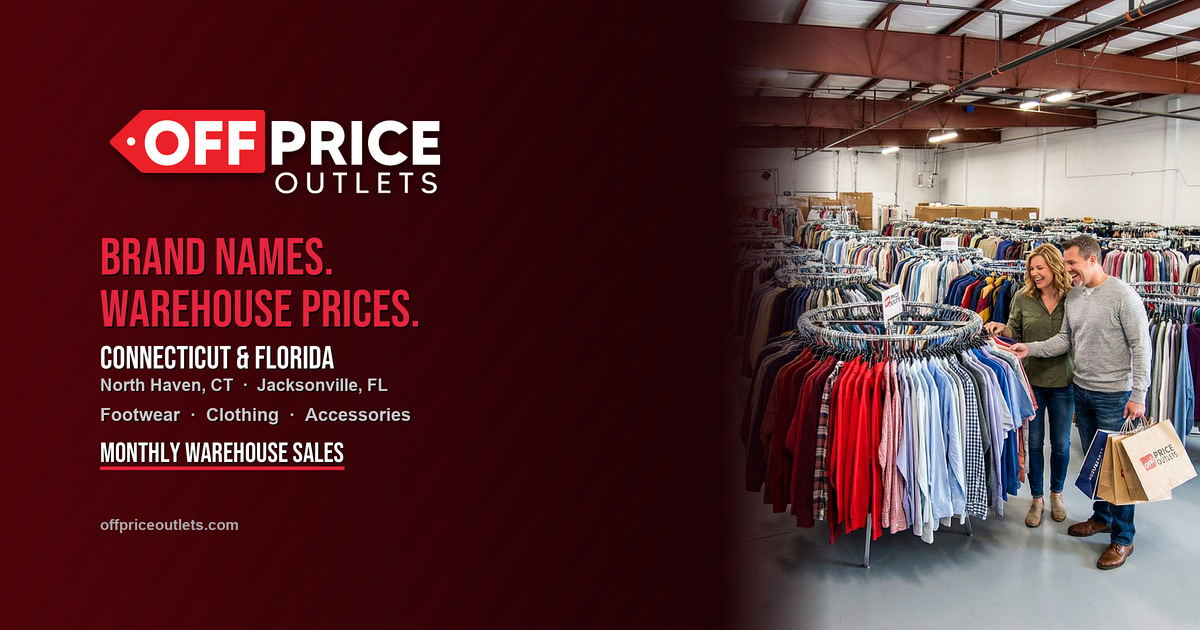
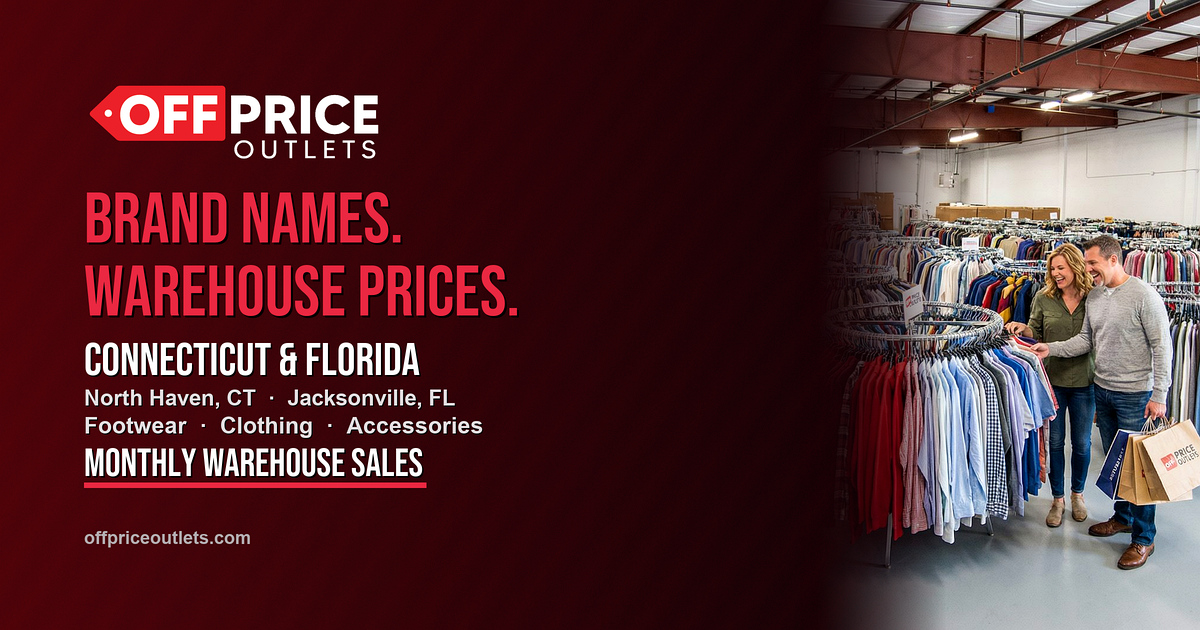
Enlarge OG share image type for readable iMessage previews.
Wider text panel, larger Bebas headlines, cache-bust v83, add regen script.

diff --git a/index.html b/index.html
@@ -21,8 +21,8 @@
     <meta property="og:url" content="https://offpriceoutlets.com/">
     <meta property="og:title" content="Off Price Outlets | Connecticut &amp; Florida Monthly Warehouse Sales">
     <meta property="og:description" content="Two locations: North Haven, CT and Jacksonville, FL. FL grand opening Oct 10–11 · 10 AM–4 PM. Brand-name clothing, footwear &amp; accessories at warehouse prices.">
-    <meta property="og:image" content="https://offpriceoutlets.com/images/og-image.jpg?v=82">
-    <meta property="og:image:secure_url" content="https://offpriceoutlets.com/images/og-image.jpg?v=82">
+    <meta property="og:image" content="https://offpriceoutlets.com/images/og-image.jpg?v=83">
+    <meta property="og:image:secure_url" content="https://offpriceoutlets.com/images/og-image.jpg?v=83">
     <meta property="og:image:type" content="image/jpeg">
     <meta property="og:image:width" content="1200">
     <meta property="og:image:height" content="630">
@@ -32,7 +32,7 @@
     <meta name="twitter:card" content="summary_large_image">
     <meta name="twitter:title" content="Off Price Outlets | Connecticut &amp; Florida Monthly Warehouse Sales">
     <meta name="twitter:description" content="Two locations: North Haven, CT and Jacksonville, FL. FL grand opening Oct 10–11 · 10 AM–4 PM.">
-    <meta name="twitter:image" content="https://offpriceoutlets.com/images/og-image.jpg?v=82">
+    <meta name="twitter:image" content="https://offpriceoutlets.com/images/og-image.jpg?v=83">
 
     <link rel="icon" href="images/favicon.svg?v=68" type="image/svg+xml">
     <link rel="icon" href="images/favicon-32.png?v=68" type="image/png" sizes="32x32">
@@ -57,7 +57,7 @@
           "name": "Off Price Outlets",
           "url": "https://offpriceoutlets.com/",
           "logo": "https://offpriceoutlets.com/images/logo-official.png",
-          "image": "https://offpriceoutlets.com/images/og-image.jpg?v=82",
+          "image": "https://offpriceoutlets.com/images/og-image.jpg?v=83",
           "description": "Off Price Outlets hosts monthly warehouse sales with brand-name men's and women's clothing, footwear, and accessories at warehouse prices—often up to 90% off retail. Locations in North Haven, Connecticut and Jacksonville, Florida.",
           "sameAs": [
             "https://www.instagram.com/offpriceoutletsct/",
@@ -72,7 +72,7 @@
           "name": "Off Price Outlets — North Haven",
           "parentOrganization": { "@id": "https://offpriceoutlets.com/#organization" },
           "url": "https://offpriceoutlets.com/#locations",
-          "image": "https://offpriceoutlets.com/images/og-image.jpg?v=82",
+          "image": "https://offpriceoutlets.com/images/og-image.jpg?v=83",
           "description": "Monthly warehouse sales in North Haven, Connecticut on select dates—not every weekend. Brand-name clothing, footwear, and accessories at warehouse prices.",
           "address": {
             "@type": "PostalAddress",
@@ -96,7 +96,7 @@
           "name": "Off Price Outlets — Jacksonville",
           "parentOrganization": { "@id": "https://offpriceoutlets.com/#organization" },
           "url": "https://offpriceoutlets.com/#locations",
-          "image": "https://offpriceoutlets.com/images/og-image.jpg?v=82",
+          "image": "https://offpriceoutlets.com/images/og-image.jpg?v=83",
           "description": "Off Price Outlets Jacksonville, Florida. Grand opening warehouse sale October 10–11, 2026, 10 AM–4 PM. Brand-name clothing, footwear, and accessories.",
           "address": {
             "@type": "PostalAddress",
@@ -135,7 +135,7 @@
               "addressCountry": "US"
             }
           },
-          "image": "https://offpriceoutlets.com/images/og-image.jpg?v=82",
+          "image": "https://offpriceoutlets.com/images/og-image.jpg?v=83",
           "organizer": { "@id": "https://offpriceoutlets.com/#organization" },
           "offers": {
             "@type": "AggregateOffer",

diff --git a/scripts/generate-og-image.py b/scripts/generate-og-image.py
@@ -1,0 +1,139 @@
+#!/usr/bin/env python3
+"""Regenerate images/og-image.jpg (1200×630) for link previews."""
+from __future__ import annotations
+
+import random
+from pathlib import Path
+
+from PIL import Image, ImageDraw, ImageEnhance, ImageFilter, ImageFont, ImageOps
+
+ROOT = Path(__file__).resolve().parents[1]
+BEBAS = Path("/tmp/og-fonts/BebasNeue-Regular.ttf")
+BODY = Path("/System/Library/Fonts/Supplemental/Arial Bold.ttf")
+
+W, H = 2400, 1260
+SAFE = 168
+PHOTO_FRAC = 0.32
+
+
+def main() -> None:
+    if not BEBAS.is_file():
+        raise SystemExit(f"Missing font: {BEBAS} (download Bebas Neue to /tmp/og-fonts/)")
+
+    text_right = int(W * (1 - PHOTO_FRAC) - 40)
+    photo_w = int(W * PHOTO_FRAC)
+
+    photo_src = Image.open(ROOT / "images/homepage.jpg").convert("RGB")
+    photo = ImageOps.fit(
+        photo_src, (photo_w, H), method=Image.Resampling.LANCZOS, centering=(0.58, 0.42)
+    )
+    photo = ImageEnhance.Contrast(
+        ImageEnhance.Color(ImageEnhance.Sharpness(photo).enhance(1.12)).enhance(1.05)
+    ).enhance(1.06)
+
+    base = Image.new("RGB", (W, H))
+    px = base.load()
+    rnd = random.Random(7)
+    for y in range(H):
+        for x in range(W):
+            t = x / W
+            r = int(22 + 55 * max(0, 1 - t * 1.4))
+            g = int(1 + 3 * (1 - t))
+            b = int(4 + 6 * (1 - t))
+            streak = int(18 * abs(((x + y * 0.7) % 90) / 90 - 0.5))
+            n = rnd.randint(-6, 6)
+            r = max(0, min(90, r + streak // 2 + n))
+            px[x, y] = (r, max(0, g), max(0, b))
+
+    canvas = base.convert("RGBA")
+    photo_rgba = photo.convert("RGBA")
+    feather = 260
+    mask = Image.new("L", (photo_w, H), 255)
+    md = ImageDraw.Draw(mask)
+    for i in range(feather):
+        md.line([(i, 0), (i, H)], fill=int(255 * (i / feather) ** 1.15))
+    dark = Image.new("RGBA", (photo_w, H), (0, 0, 0, 0))
+    dd = ImageDraw.Draw(dark)
+    for i in range(feather):
+        dd.line([(i, 0), (i, H)], fill=(0, 0, 0, int(130 * (1 - i / feather))))
+    photo_rgba = Image.alpha_composite(photo_rgba, dark)
+    canvas.paste(photo_rgba, (W - photo_w, 0), mask)
+
+    logo = Image.open(ROOT / "images/logo-official-white.png").convert("RGBA")
+    lp = logo.load()
+    for yy in range(logo.height):
+        for xx in range(logo.width):
+            r, g, b, a = lp[xx, yy]
+            if r < 40 and g < 40 and b < 40:
+                lp[xx, yy] = (0, 0, 0, 0)
+    pad = 16
+    logo_p = Image.new("RGBA", (logo.width + pad * 2, logo.height + pad * 2), (0, 0, 0, 0))
+    logo_p.paste(logo, (pad, pad), logo)
+    logo_w = 600
+    logo_r = logo_p.resize(
+        (logo_w, int(logo_p.height * logo_w / logo_p.width)), Image.Resampling.LANCZOS
+    )
+    canvas.alpha_composite(logo_r, (SAFE, SAFE - 8))
+
+    draw = ImageDraw.Draw(canvas)
+    red = (235, 40, 65, 255)
+    white = (255, 255, 255, 255)
+    dim = (228, 224, 226, 255)
+
+    def put(pos, text, font, fill, o=4):
+        draw.text((pos[0] + o, pos[1] + o), text, font=font, fill=(0, 0, 0, 165))
+        draw.text(pos, text, font=font, fill=fill)
+
+    def tw(text, font):
+        bb = draw.textbbox((0, 0), text, font=font)
+        return bb[2] - bb[0]
+
+    x = SAFE
+    y = SAFE + logo_r.height + 20
+
+    hero_size = 142
+    f_hero = ImageFont.truetype(str(BEBAS), hero_size)
+    while tw("Warehouse prices.", f_hero) > text_right - x and hero_size > 108:
+        hero_size -= 4
+        f_hero = ImageFont.truetype(str(BEBAS), hero_size)
+
+    put((x, y), "Brand names.", f_hero, red)
+    y += hero_size + 4
+    put((x, y), "Warehouse prices.", f_hero, red)
+    y += hero_size + 22
+
+    f_loc = ImageFont.truetype(str(BEBAS), 92)
+    if tw("Connecticut & Florida", f_loc) > text_right - x:
+        f_loc = ImageFont.truetype(str(BEBAS), 84)
+    loc_h = 92 if f_loc.size == 92 else 84
+    put((x, y), "Connecticut & Florida", f_loc, white, o=3)
+    y += loc_h + 12
+
+    f_cities = ImageFont.truetype(str(BODY), 44)
+    put((x, y), "North Haven, CT  ·  Jacksonville, FL", f_cities, dim, o=2)
+    y += 54
+
+    f_cat = ImageFont.truetype(str(BODY), 46)
+    put((x, y), "Footwear  ·  Clothing  ·  Accessories", f_cat, dim, o=2)
+    y += 56
+
+    f_cta = ImageFont.truetype(str(BEBAS), 78)
+    cta = "Monthly warehouse sales"
+    put((x, y), cta, f_cta, white, o=3)
+    bb = draw.textbbox((x, y), cta, font=f_cta)
+    draw.rectangle([x, bb[3] + 12, min(bb[2] + 6, text_right), bb[3] + 22], fill=red)
+
+    f_url = ImageFont.truetype(str(BODY), 36)
+    url = "offpriceoutlets.com"
+    ub = draw.textbbox((0, 0), url, font=f_url)
+    draw.text((x, H - SAFE - (ub[3] - ub[1]) - 4), url, font=f_url, fill=(180, 175, 178, 255))
+
+    out2x = canvas.convert("RGB")
+    out = ImageEnhance.Sharpness(out2x.resize((1200, 630), Image.Resampling.LANCZOS)).enhance(1.25)
+    out.save(ROOT / "images/og-image.jpg", "JPEG", quality=97, optimize=True, progressive=True, subsampling=0)
+    out.save(ROOT / "images/og-image.png", "PNG", optimize=True)
+    print("Wrote", ROOT / "images/og-image.jpg", "hero px", hero_size)
+
+
+if __name__ == "__main__":
+    main()
